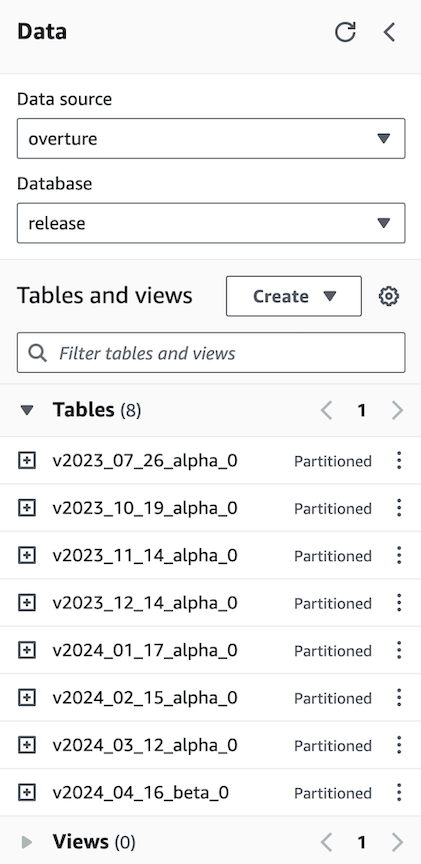
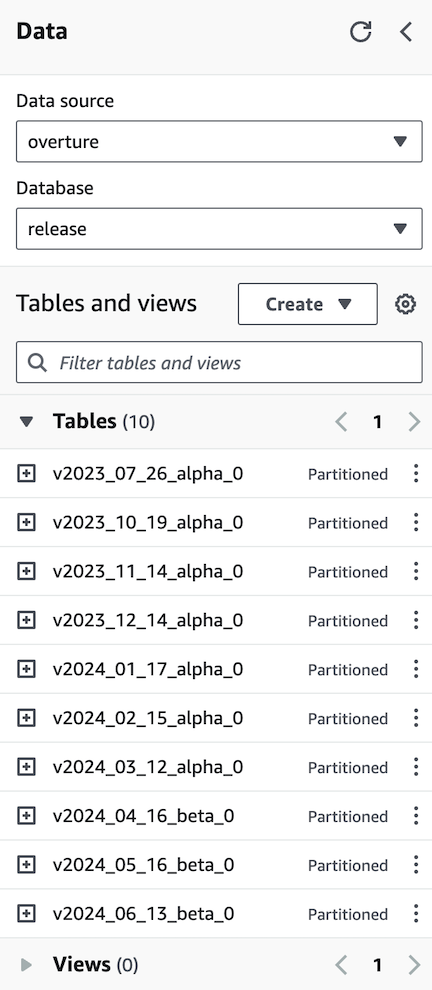
Update the release to 6/13 (#53)
* Update the release to 6/13

* Update 0_create_external_table.sql

* Update 0_create_external_table.sql

* Update 0_create_external_table.sql

* temporarily remove create external table query from athena docs

---------

diff --git a/docusaurus.config.js b/docusaurus.config.js
@@ -21,7 +21,7 @@ const config = {
   favicon: 'img/favicon.png',
 
   customFields: {
-    overtureRelease: '2024-05-16-beta.0',
+    overtureRelease: '2024-06-13-beta.0',
   },
 
 
